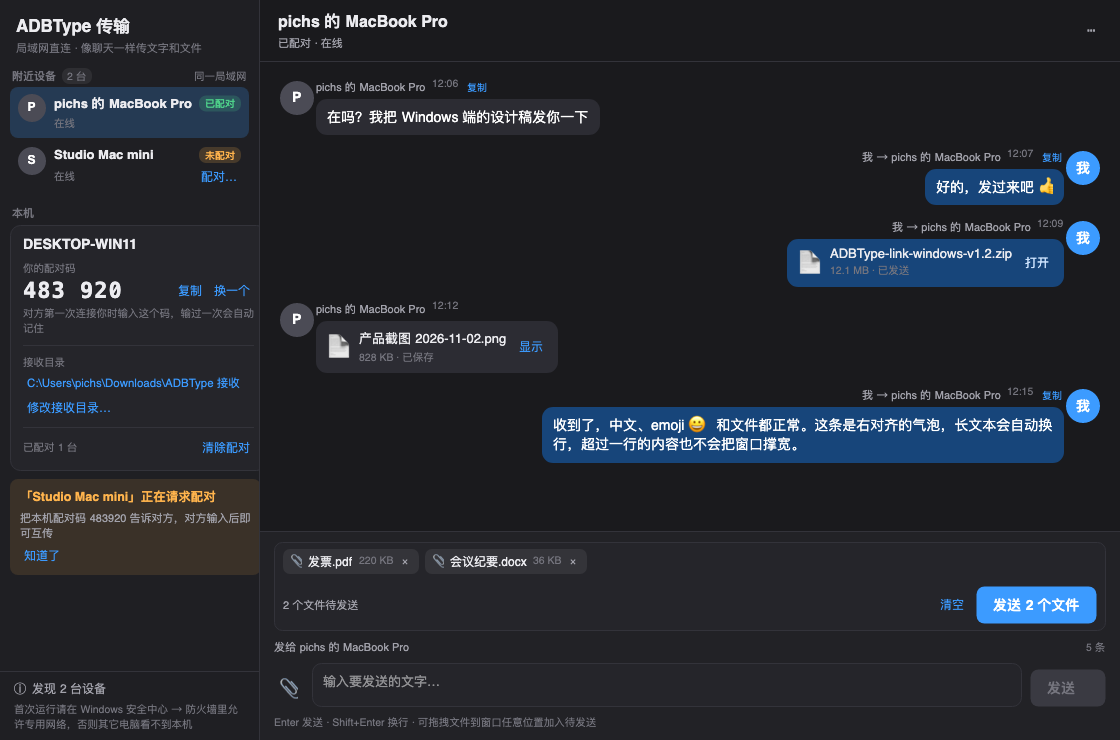
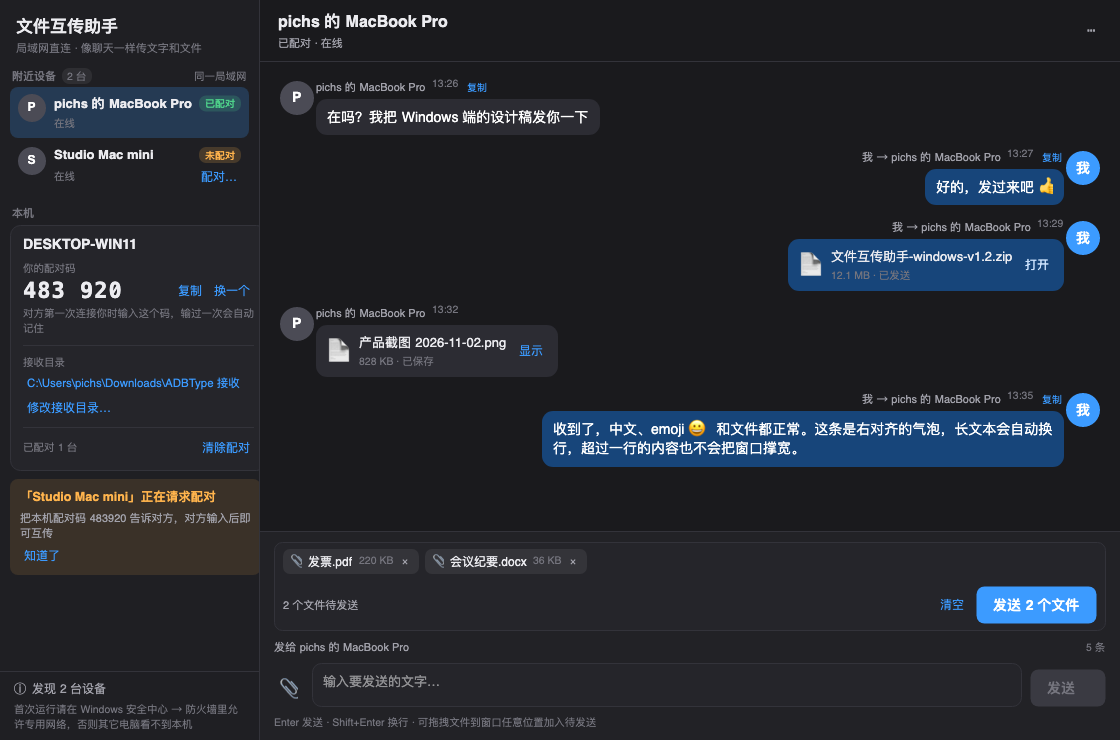
rebrand: app name is now 文件互传助手
- macOS: bundle renamed 文件互传助手.app, CFBundleDisplayName/CFBundleName, window title,
  sidebar branding, local-network permission text; package.sh/安装脚本/安装说明 updated,
  dist artifacts now 文件互传助手-1.2.dmg / 文件互传助手-1.2-macOS.zip
- Windows: window title, sidebar header and empty-state text, AssemblyTitle/Product/Description
  set to 文件互传助手; version metadata 1.2.0
- docs: README/macOS/Windows/mobile/spec branding updated; screenshots regenerated
- internal identifiers intentionally unchanged (Bundle ID dev.local.adbtype, executable ADBType,
  protocol tag ADBTypeLink, data dirs) so existing pairings/chat and interop keep working

diff --git a/macos/Sources/LANTransferView.swift b/macos/Sources/LANTransferView.swift
@@ -79,7 +79,7 @@ struct LANTransferView: View {
                 }
                 .frame(width: 26, height: 26)
                 VStack(alignment: .leading, spacing: 1) {
-                    Text("ADBType 传输")
+                    Text("文件互传助手")
                         .font(.headline)
                     Text("局域网直连 · 不经过服务器")
                         .font(.caption2)
@@ -144,7 +144,7 @@ struct LANTransferView: View {
                     .font(.callout.weight(.medium))
             }
             .foregroundStyle(.secondary)
-            Text("在另一台 Mac 的「电脑设备」页，或 Windows 电脑上打开 ADBType 传输端，并连同一个 Wi-Fi / 局域网。")
+            Text("在另一台 Mac 的「电脑设备」页，或 Windows 电脑上打开「文件互传助手」，并连同一个 Wi-Fi / 局域网。")
                 .font(.caption)
                 .foregroundStyle(.secondary)
                 .fixedSize(horizontal: false, vertical: true)
@@ -1087,7 +1087,7 @@ struct LANTransferView: View {
     private func pairingHelp(for request: PairingRequest) -> String {
         switch request.action {
         case .pair:
-            return "在对方电脑的 ADBType「电脑设备」页左侧，可以看到 6 位配对码。输入一次后两台设备会互相信任，以后直接发送；也可以直接粘贴。"
+            return "在对方电脑的「文件互传助手」→「电脑设备」页左侧，可以看到 6 位配对码。输入一次后两台设备会互相信任，以后直接发送；也可以直接粘贴。"
         case .text, .files:
             return "这是第一次和「\(request.peerName)」互传。在对方电脑的「电脑设备」页左侧找到 6 位配对码，输入后会把这次内容发过去，并记住对方。"
         }

diff --git a/macos/tests/render_chat_ui.swift b/macos/tests/render_chat_ui.swift
@@ -34,7 +34,7 @@ struct RenderChatUI {
                        date: now.addingTimeInterval(-320), text: "另外这条是中文和 emoji 测试：😀 收到请回复～"),
             LANMessage(direction: .outgoing, peerName: "pichs 的 Windows 笔记本",
                        date: now.addingTimeInterval(-200),
-                       fileURL: URL(fileURLWithPath: "/Users/pichs/Downloads/ADBType-1.2-macOS.zip"),
+                       fileURL: URL(fileURLWithPath: "/Users/pichs/Downloads/文件互传助手-1.2-macOS.zip"),
                        fileSize: 12_884_901),
             LANMessage(direction: .incoming, peerName: "pichs 的 Windows 笔记本",
                        date: now.addingTimeInterval(-120),
@@ -58,7 +58,7 @@ struct RenderChatUI {
 
         let window = NSWindow(contentRect: NSRect(x: 0, y: 0, width: width, height: height),
                               styleMask: [.titled, .resizable], backing: .buffered, defer: false)
-        window.title = "ADBType 传输"
+        window.title = "文件互传助手"
         window.contentView = hosting
         window.center()
         window.makeKeyAndOrderFront(nil)

diff --git a/macos/Sources/ADBTypeApp.swift b/macos/Sources/ADBTypeApp.swift
@@ -19,7 +19,7 @@ struct ADBTypeApp: App {
     @StateObject private var lanModel = LANModel()
 
     var body: some Scene {
-        Window("ADBType 传输", id: "main") {
+        Window("文件互传助手", id: "main") {
             ContentView()
                 .environmentObject(model)
                 .environmentObject(fileModel)

diff --git a/windows/src/ADBTypeLink.App/ViewModels/MainViewModel.cs b/windows/src/ADBTypeLink.App/ViewModels/MainViewModel.cs
@@ -206,7 +206,7 @@ public sealed class MainViewModel : ObservableObject, IAsyncDisposable
 
     public bool HasSelectedPeer => SelectedPeer is not null;
 
-    public string HeaderTitle => SelectedPeer?.Name ?? "ADBType 传输";
+    public string HeaderTitle => SelectedPeer?.Name ?? "文件互传助手";
 
     public string HeaderStatusText
     {
@@ -770,8 +770,8 @@ public sealed class MainViewModel : ObservableObject, IAsyncDisposable
             Direction = MessageDirection.Outgoing,
             PeerName = "pichs 的 MacBook Pro",
             Kind = MessageKind.File,
-            FileName = "ADBType-link-windows-v1.2.zip",
-            FilePath = @"C:\Users\pichs\Downloads\ADBType 接收\ADBType-link-windows-v1.2.zip",
+            FileName = "文件互传助手-windows-v1.2.zip",
+            FilePath = @"C:\Users\pichs\Downloads\ADBType 接收\文件互传助手-windows-v1.2.zip",
             FileSize = 12_700_000,
             Date = now.AddMinutes(-15),
         }));

diff --git a/macos/README.md b/macos/README.md
@@ -1,4 +1,4 @@
-# ADBType · macOS 端
+# 文件互传助手 · macOS 端
 
 macOS 原生 SwiftUI 小工具（macOS 13+，无第三方依赖），包含两个页面：
 
@@ -67,10 +67,10 @@ Windows 端在 [`windows/`](../windows/)；移动端规划见 [`mobile/`](../mob
 ```bash
 cd macos
 ./build.sh          # 需要 Xcode 命令行工具（swiftc），默认编 arm64 + x86_64 通用包
-open ADBType.app
+open 文件互传助手.app
 ```
 
-- 产物 `macos/ADBType.app` 可以直接拖到「应用程序」目录。
+- 产物 `macos/文件互传助手.app` 可以直接拖到「应用程序」目录。
 - 构建目标为 macOS 13+ 通用二进制（Apple 芯片 / Intel 都能跑），本机临时签名。
 - adb 自动查找顺序：已保存的路径 → `ANDROID_HOME` / `ANDROID_SDK_ROOT` → `~/Android/sdk`
   → `~/Library/Android/sdk` → Homebrew → 登录 shell 的 PATH。都找不到时点右下角齿轮手动选择。
@@ -81,7 +81,7 @@ open ADBType.app
 
 ```bash
 cd macos
-./package.sh        # 生成 macos/dist/ADBType-1.2.dmg 和 macos/dist/ADBType-1.2-macOS.zip
+./package.sh        # 生成 macos/dist/文件互传助手-1.2.dmg 和 macos/dist/文件互传助手-1.2-macOS.zip
 ```
 
 - dmg / zip 里带《安装说明.txt》和「授权并安装.sh」（可执行 shell 脚本）：在终端执行
@@ -89,7 +89,7 @@ cd macos
   App（没有管理员权限时会弹窗要密码）。
 - 没有苹果开发者签名和公证（需要付费 Developer ID），手动安装的话第一次打开要：
   右键 →「打开」；若提示「已损坏」，执行
-  `xattr -dr com.apple.quarantine /Applications/ADBType.app`。
+  `xattr -dr com.apple.quarantine /Applications/文件互传助手.app`。
   macOS 15+ 也可在「系统设置 → 隐私与安全性」点「仍要打开」。
 
 ## 已知限制

diff --git a/README.md b/README.md
@@ -1,4 +1,4 @@
-# ADBType · 局域网互传（macOS / Windows / 移动端规划）
+# 文件互传助手 · 局域网互传（macOS / Windows / 移动端规划）
 
 一套局域网直连的小工具，按端分成独立目录，互不交叉：
 
@@ -8,6 +8,9 @@
 
 电脑之间**直连传输，不经过服务器**：UDP 52730 发现设备，6 位配对码配对，之后用 TCP 收发
 文字和文件；聊天记录、配对关系本地持久化。
+
+> 改名说明：App 的显示名称统一为「文件互传助手」。内部 Bundle ID、可执行文件名和协议广播
+> 标识仍是 `ADBType` / `ADBTypeLink`，不影响与旧版本或其他端互传，已有配对和聊天记录继续有效。
 
 ---
 
@@ -20,7 +23,7 @@
 │  ├─ Resources/          Info.plist、图标、手机剪贴板 dex
 │  ├─ packaging/          分发用安装说明与安装脚本
 │  ├─ tests/              协议探针 / 界面离屏渲染 / 互通测试
-│  ├─ build.sh            编译出 ADBType.app
+│  ├─ build.sh            编译出「文件互传助手.app」
 │  └─ package.sh          生成 dmg / zip
 ├─ windows/               Windows 端（Avalonia + .NET 8）
 │  ├─ src/                Core、App、SmokeTest、TestPeer
@@ -57,7 +60,7 @@
 ```bash
 cd macos
 ./build.sh          # 需要 Xcode 命令行工具；默认 arm64 + x86_64
-open ADBType.app
+open 文件互传助手.app
 ```
 
 **Windows**（在 Windows 上执行）

diff --git a/docs/LAN-transfer-spec.md b/docs/LAN-transfer-spec.md
@@ -1,4 +1,4 @@
-# ADBType 局域网传输协议 & 界面规格
+# 文件互传助手 局域网传输协议 & 界面规格
 
 本文档是 macOS 端（SwiftUI，`macos/Sources/LANTransfer.swift`）、Windows 端（Avalonia + .NET 8，`windows/`）以及规划中的移动端（`mobile/`）之间的**兼容契约**。
 两端必须严格按本文实现，才能互相发现、配对、收发。
@@ -197,7 +197,7 @@
 ```
 +----------------------+---------------------------------------------+
 | 侧栏 260px            | 聊天头部（对方名 / 在线 / 已配对 / 配对按钮）    |
-|  ADBType 传输         +---------------------------------------------+
+|  文件互传助手          +---------------------------------------------+
 |  搜索状态              |                                             |
 |  ── 附近设备 ──        |  消息列表（可滚动，占满剩余高度）                |
 |   [设备行]            |   左：对方头像 + 名字 + 时间 + 气泡             |

diff --git a/mobile/README.md b/mobile/README.md
@@ -1,11 +1,11 @@
-# ADBType · 移动端（规划中）
+# 文件互传助手 · 移动端（规划中）
 
 > 状态：**只有规划，暂无代码**。这个目录先占位，后续再开始实现。
 
 ## 目标
 
 在手机（Android 优先评估，iOS 另看）上安装一个 App，和同一 Wi-Fi / 局域网里的
-macOS / Windows 版 ADBType 直接互传：
+macOS / Windows 版「文件互传助手」直接互传：
 
 - 像微信一样聊天：消息记录 + **底部固定输入框**，左收右发；
 - 6 位配对码配对一次后自动记住，以后直接发；

diff --git a/windows/README.md b/windows/README.md
@@ -1,6 +1,6 @@
-# ADBType 传输端（Windows / Avalonia）
+# 文件互传助手 · Windows 端（Avalonia）
 
-Windows 端的 ADBType 局域网传输应用：和 macOS 端（`macos/Sources/LANTransfer.swift`）按
+Windows 端的「文件互传助手」局域网传输应用：和 macOS 端（`macos/Sources/LANTransfer.swift`）按
 [`docs/LAN-transfer-spec.md`](../docs/LAN-transfer-spec.md) 的协议**位对位互通**——互相发现、6 位配对码、
 收发文字和文件，界面是微信式的「左边设备列表 + 右边聊天 + 底部固定输入框」。
 
